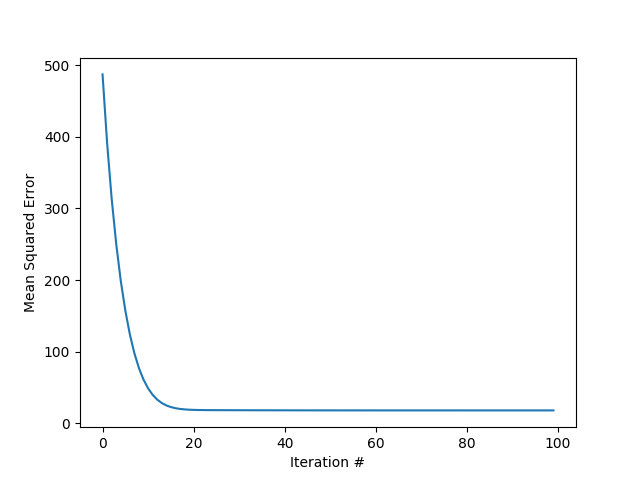
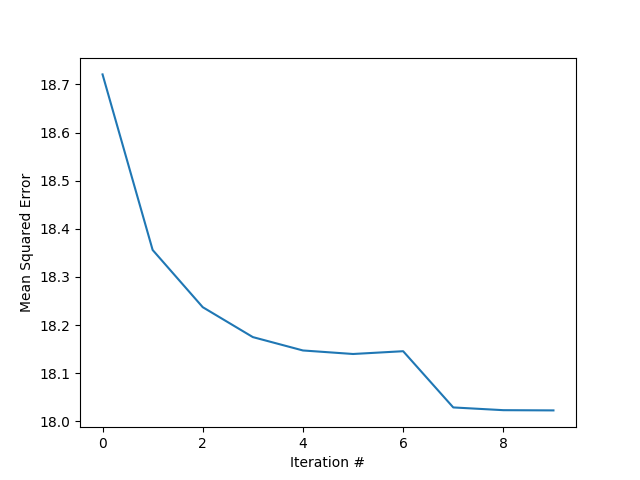
predict implementation working

diff --git a/linear-regression.js b/linear-regression.js
@@ -8,29 +8,34 @@ class LinearRegression {
         this.options = Object.assign({learningRate: .1, iterations: 1000}, options)
         this.weights = tf.zeros([this.features.shape[1],1]);
         this.mseHistory = [];
-        this.bHistory = [];
 
     }
     train() {
-        for(let i = 0; i < this.options.iterations; i++){
-            this.bHistory.push(this.weihts.get(0,0))
-            this.gradientDescent();
+        const batchQuantity = Math.floor(this.features.shape[0] / this.options.batchSize)
+        for(let i = 0; i < this.options.iterations; i++){            
+            for(let j = 0; j < batchQuantity; j++){
+                const { batchSize } = this.options;
+                const startIndex = j * batchSize;
+                const featureSlice = this.features.slice([startIndex, 0], [batchSize, -1])
+                const labelSlice = this.labels.slice([startIndex, 0], [batchSize, -1])
+                this.gradientDescent(featureSlice, labelSlice);
+            }
             this.recordMSE();
             this.updateLearningRate();
         }
     }
-    gradientDescent() {
+    gradientDescent(features, labels) {
         // currentGuess is a matrix multiplication of [[m], [b]] which is equivalent to doing guess/y = mx + b for every feature
-        const currentGuesses = this.features.matMul(this.weights);
-        const differences = currentGuesses.sub(this.labels);
+        const currentGuesses = features.matMul(this.weights);
+        const differences = currentGuesses.sub(labels);
 
-        const slopes = this.features
+        const slopes = features
             // transpose the feature matrix which is originally row by column tensor/matrix with ones concatenated. Now it's a col by row matrix, where each column is a feature and a value of one, and there are only two rows, one for the features and one for the 1's
             .transpose()
             // multiply the features by the differences btwn (mx + b) - labels
             .matMul(differences)
             // divide by n, or the total number of entries
-            .div(this.features.shape[0])
+            .div(features.shape[0])
         this.weights = this.weights.sub(slopes.mul(this.options.learningRate));
     }
 //     gradientDescent() {
@@ -79,6 +84,9 @@ class LinearRegression {
         // creates a tensor of shape [this.features.shape[0]/rows, 1 col] and concatenates the result to the features tensor along the horizontal/y axis
         features = tf.ones([features.shape[0], 1]).concat(features, 1);
         return features;
+    }
+    predict(observations) {
+        return this.processFeatures(observations).matMul(this.weights);
     }
     standardize(features) {
         const { mean, variance } = tf.moments(features, 0);

diff --git a/index.js b/index.js
@@ -13,17 +13,23 @@ let {features, labels, testFeatures, testLabels} = loadCSV('./cars.csv', {
 
 const regression = new LinearRegression(features, labels, {
     learningRate: 0.1,
-    iterations: 100
+    iterations: 10,
+    batchSize: 10
 }, testFeatures, testLabels)
 
 regression.train();
 
 // r^2 or Coefficient of Determination
 const r2 = regression.test(testFeatures, testLabels);
+console.log('R2 is : ', r2);
+
+regression.predict([
+    // horsepower, weight, displacement
+    [130, 1.752, 307]
+]).print();
 
 plot({
-    x: regression.bHistory,
-    y: regression.mseHistory,
-    xLabel: 'Value of B',
+    x: regression.mseHistory,
+    xLabel: 'Iteration #',
     yLabel: 'Mean Squared Error'
 })
